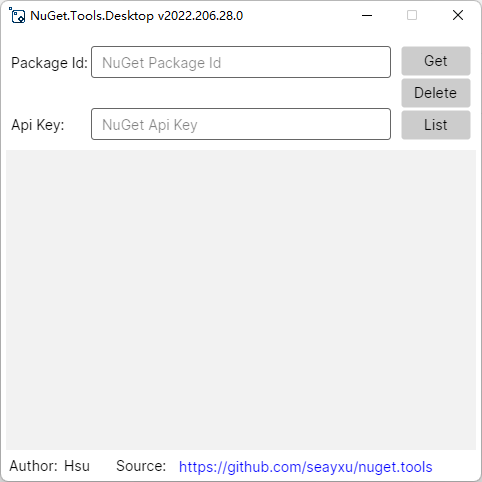
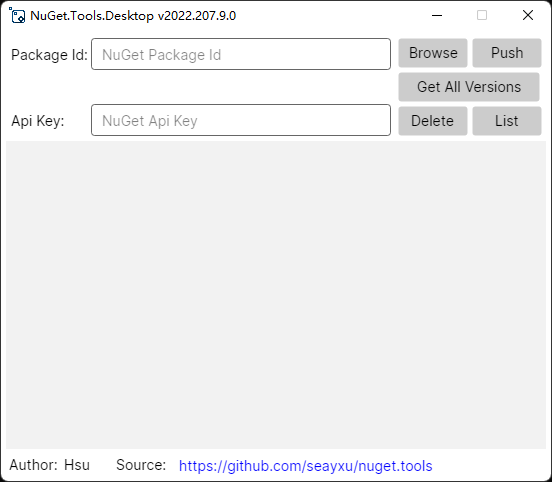
updated README

diff --git a/README.md b/README.md
@@ -5,8 +5,12 @@
 
 A nuget tools app.
 
+## Requirements
+- net6.0
+
 ## Features
 - Versions
+- Push
 - Delete
 - ReList
 
